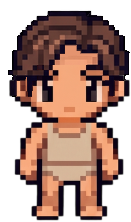
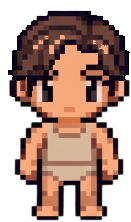
fix(char): 세미리프컷 - 대표 보정본 반영 + 아이템 레이어에 칠해진 살색 5940px 제거(이마 가로선 원인) (sw v261)

Changed region(s): [[0.3664, 0.1351, 0.8244, 0.2973], [0.2443, 0.1622, 0.3664, 0.2432], [0.3969, 0.2703, 0.458, 0.2973]]

diff --git a/index.html b/index.html
@@ -2041,7 +2041,7 @@ window.CHAR_ITEMS = [
   { id: 'shoes_black', slot: 'shoes', body: 'human', name: '검정 러닝화', price: 0, sheet: 'char/items/shoes_black.png', thumb: 'char/items/shoes_black_thumb.png' }
 ];
 // 아이템 이미지 캐시버전 — 아이템 시트/썸네일 바꿀 때마다 올리면 SW 캐시 무시하고 새로 받음
-window._ITEM_V = 77;
+window._ITEM_V = 78;
 window._iv = function (u) { return u ? (u + (u.indexOf('?') < 0 ? '?v=' : '&v=') + (window._ITEM_V || 1)) : u; };
 window.CHAR_FREE = ['hair_short', 'top_tee', 'mask_simple'];
 window.CHAR_SHAPES = {

diff --git a/sw.js b/sw.js
@@ -1,7 +1,7 @@
 // 배포마다 이 버전을 올려야 자동 새버전 적용(새로고침)이 동작함
-const CACHE_NAME = 'murpy-v260';
-const STATIC_CACHE = 'murpy-static-v260';
-const CDN_CACHE = 'murpy-cdn-v260';
+const CACHE_NAME = 'murpy-v261';
+const STATIC_CACHE = 'murpy-static-v261';
+const CDN_CACHE = 'murpy-cdn-v261';
 // 이미지 캐시는 버전 안 붙임 → 코드/HTML 배포해도 유지(URL이 곧 버전)
 const IMG_CACHE = 'murpy-img';
 
